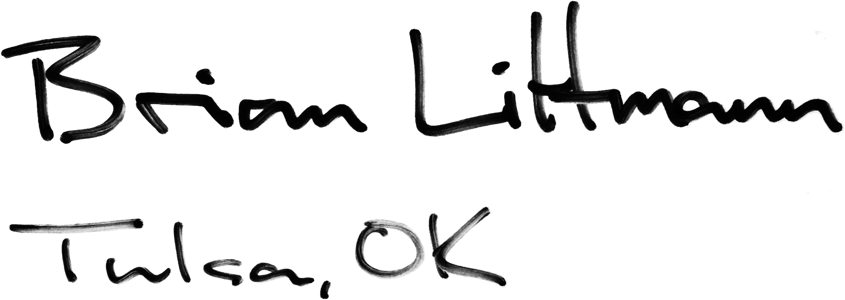
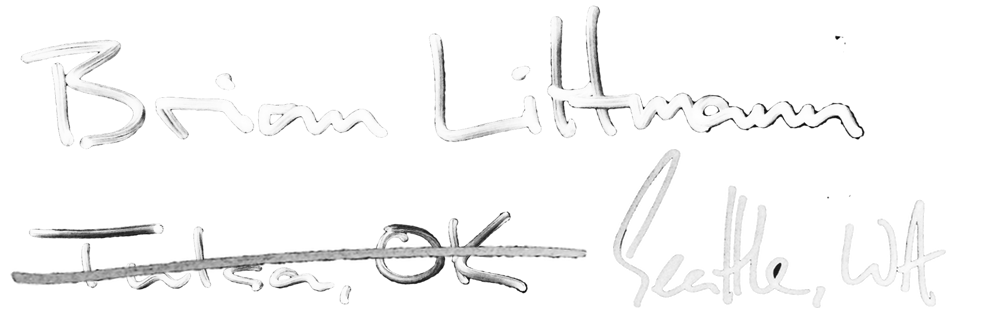
Updates for Seattle

diff --git a/index.html b/index.html
@@ -23,8 +23,8 @@
 		</div>
 
 		<div class="container" style="margin-bottom: 50px;">
-			<h1>What's up!</h1>
-			<p>I build things for the internet including but not limited to: web apps, mobile web apps, hybrid apps, and APIs. You can check out some of my work below.</p>
+			<h1>Pause, breath, read.</h1>
+			<p>I build things for the internet including but not limited to: web apps (mostly Rails), mobile web apps, hybrid apps, and APIs. I take pleasure in making sure my code is documented and understandable by myself and others tomorrow, next week, and next year. This year I've been on sabbatical and recently moved to Seattle to find something fresh. You can check out some of my work below.</p>
 
 			<a href="mailto:brian.littmann@gmail.com" class="outline-btn">Contact Me</a>
 
@@ -38,7 +38,7 @@
 				At its core, skaters upload their clips and enter them into competitions, which are scored by the community. Finalists are then judged by a panel of pro skaters.
 			</p>
 			<p>
-				I built the Rails API that serves the iOS and Android apps, a basic admin and judging area, and was the lead developer for the Ionic 2 based iOS and Android apps.
+				I designed and built the Rails API that serves the iOS and Android apps, the admin and judging area, set up the video uploading and encoding process through AWS, and was the lead developer for the Ionic 2 based iOS and Android apps.
 				Check it out on <a href="https://play.google.com/store/apps/details?id=com.podiumskate.podiumskate">Google Play</a> or the <a href="https://itunes.apple.com/us/app/podium-skate-app/id1224152462?mt=8">App Store</a>.
 			</p>
 
@@ -49,8 +49,25 @@
 			</h3>
 			<p>
 				<a href="http://roottulsa.com/">Root Tulsa</a> is an interconnected geolocation CMS that serves as a guide to life in Tulsa for both locals and visitors.
-				It's a Rails API backed iOS app, along with a mobile web version built with Ratchet, and of course an admin area to manage content.
+				It started as a Rails API backed iOS app, along with a mobile web version built with Ratchet, and of course an admin area to manage content.
 			</p>
+			<p>
+				I was the lead architect and developer for the API backend, mobile web app, and admin area. However, like all software, this project has been constantly evolving and the frontend you currently interact with was not developed by me, though its backend bones are still my blood, sweat, and tears.
+			</p>
+
+			<hr>
+
+			<h3 class="project-header">
+				<img src="images/wv.png" alt="Welcome Volcano" height="30px"> Welcome Volcano
+			</h3>
+			<p>
+				My interests do not lie soley within the realm of logic and computers. I believe design and a sense of awareness + intent is essential to practically every aspect of life. As such, there are many avenues I pursue to convey the stories of beauty that surround us so that we might be drawn toward unity and encouraged to seek goodness.
+			</p>
+			<p>
+				Welcome Volcano is the name I've given to this ideology. It's my true north&mdash;something to keep me focused and remind me when I've strayed from the path. Whether I write on <a href="https://medium.com/@brianlittmann/turning-30-meddling-with-malaise-e7545bc1dbc0">Medium</a>, post on <a href="https://instagram.com/tidyhippie">Instagram</a>, or upload on <a href="https://vimeo.com/brianlittmann">Vimeo</a>, the reward I seek is the act of creating itself.
+			</p>
+
+			<hr>
 		</div>
 	</body>
 </html>

diff --git a/css/skeleton.css b/css/skeleton.css
@@ -120,11 +120,11 @@ are based on 10px sizing. So basically 1.5rem = 15px :) */
 html {
   font-size: 62.5%; }
 body {
-  font-size: 2em; /* currently ems cause chrome bug misinterpreting rems on body element */
+  font-size: 1.7em; /* currently ems cause chrome bug misinterpreting rems on body element */
   line-height: 1.6;
   font-weight: 400;
   font-family: Georgia, Cambria, "Times New Roman", Times, serif;
-  color: #222; }
+  color: #333; }
 
 
 /* Typography
@@ -158,9 +158,9 @@ p {
 /* Links
 –––––––––––––––––––––––––––––––––––––––––––––––––– */
 a {
-  color: #3cb371; }
+  color: #888; }
 a:hover {
-  color: #319b60; }
+  color: #000; }
 
 
 /* Buttons
@@ -315,7 +315,7 @@ hr {
   margin-top: 50px;
   margin-bottom: 50px;
   border-width: 0;
-  border-top: 1px dashed #3cb371; }
+  border-top: 1px dashed #888; }
 
 
 /* Clearing
@@ -334,7 +334,7 @@ hr {
 –––––––––––––––––––––––––––––––––––––––––––––––––– */
 
 body {
-	background: #fffdf2;
+	background: #f0f0f0;
 }
 
 h1 {
@@ -353,14 +353,14 @@ h4 {
 }
 
 .hero {
-	background-color: #dcefda;
+	background-color: #202020;
 	padding: 60px 0;
 }
 
 .hero .profile {
 	display: flex;
 	align-items: center;
-	justify-content: center;
+	/*justify-content: center;*/
 }
 
 .hero h1 {
@@ -379,9 +379,13 @@ h4 {
 
 .outline-btn {
 	text-decoration: none;
-	border: 1px solid #3cb371;
+	border: 1px solid #888;
 	border-radius: 5px;
 	padding: 10px 20px;
+}
+
+a.outline-btn:hover {
+	border: 1px solid #000;
 }
 
 .project-header {
@@ -451,7 +455,7 @@ there.
 	}
 
 	.signature {
-		height: 85px;
+		height: 90px;
 	}
 }
 
